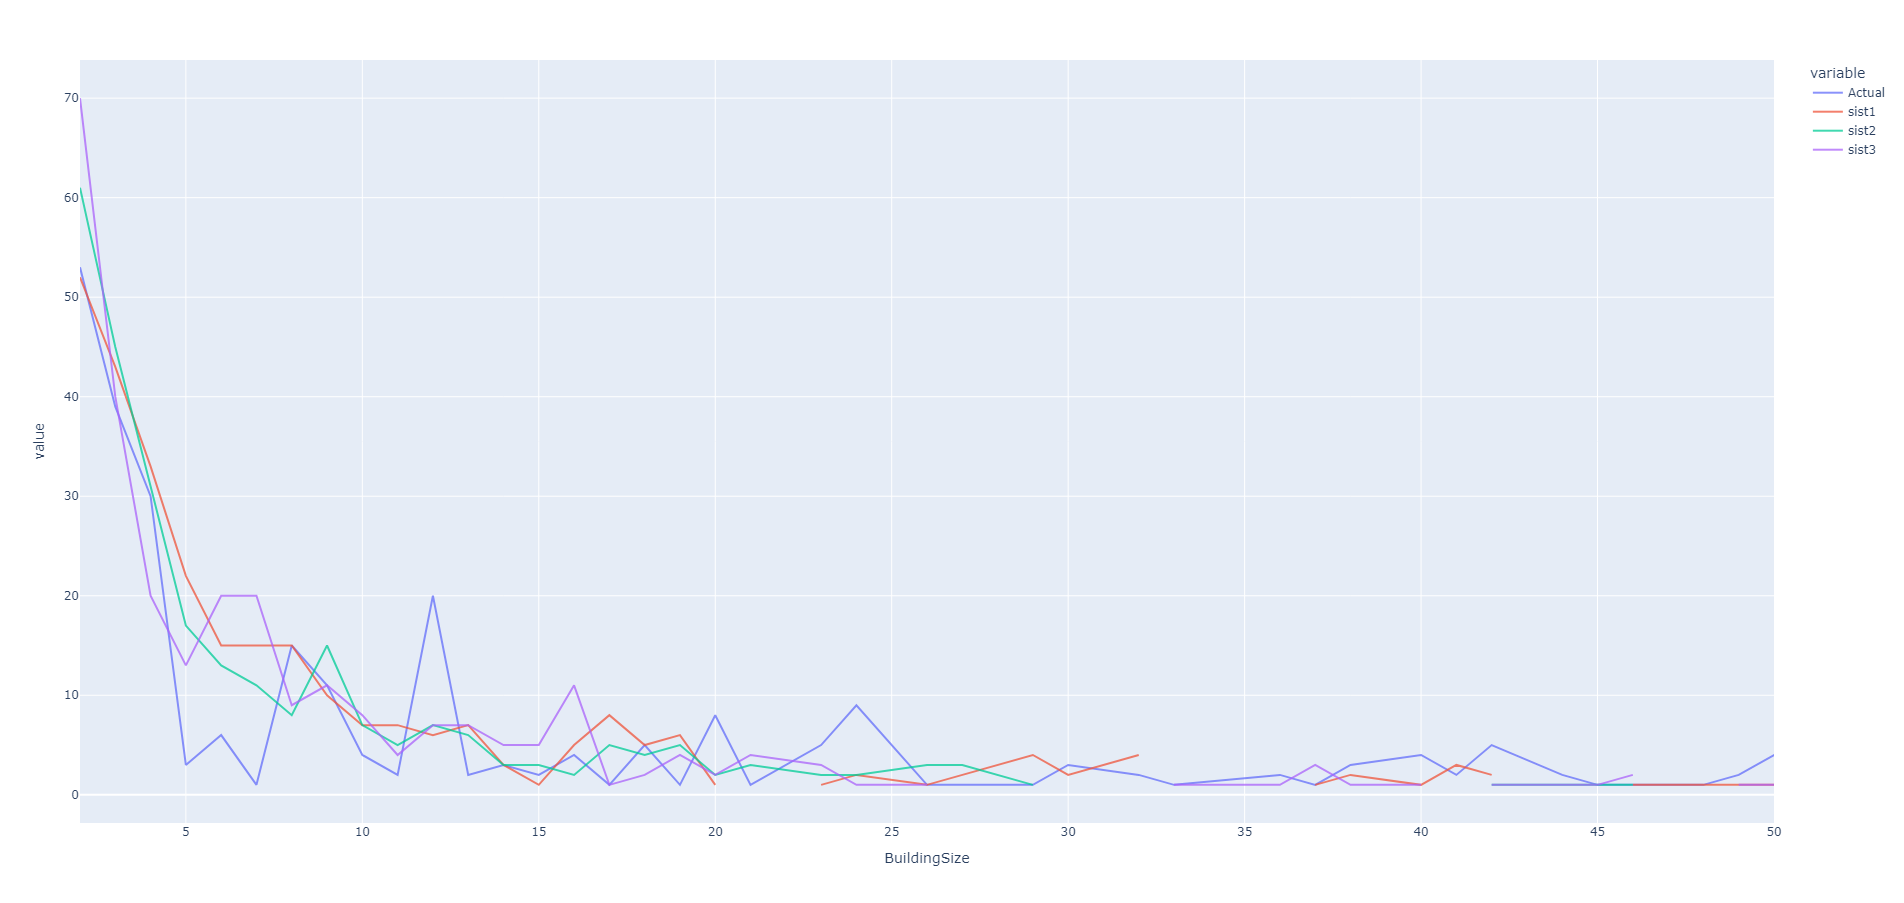
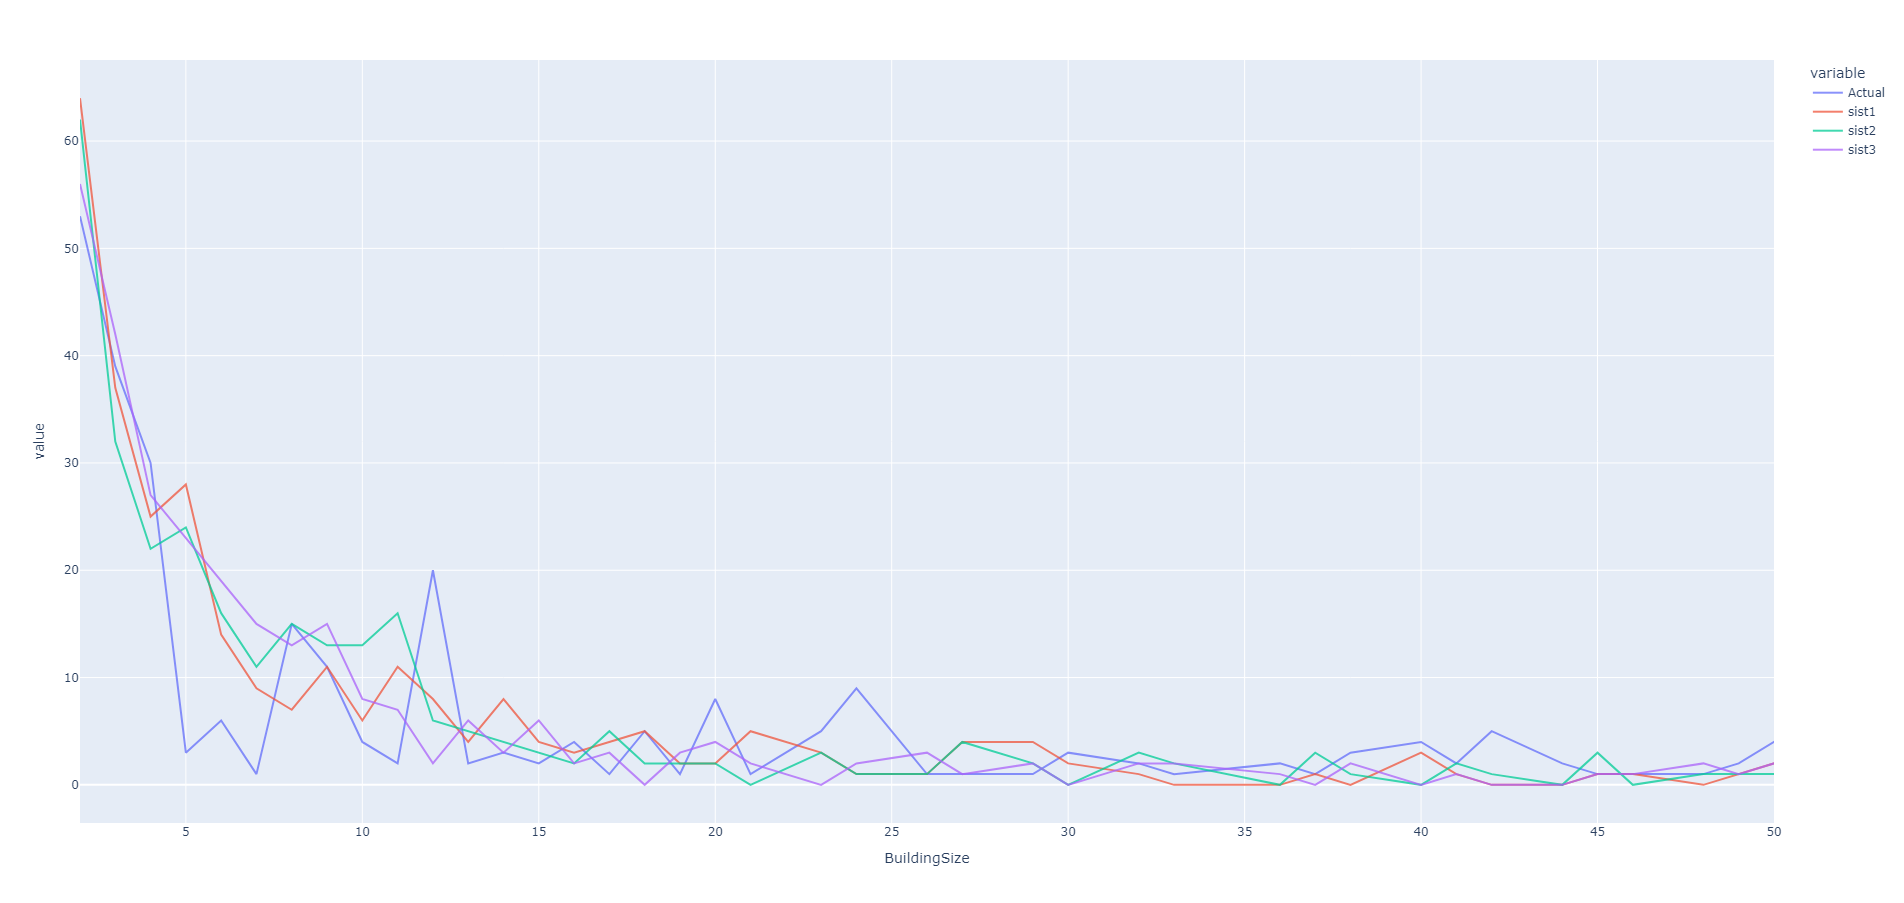
Fixed arbitrary curve generation count in curve fit tool

Changed region(s): [[0.031, 0.155, 0.9296, 0.8992], [0.4338, 0.7752, 0.4648, 0.8062]]

diff --git a/tools/fit-curve.py b/tools/fit-curve.py
@@ -31,10 +31,12 @@ dist_scale = 2.1624156371044805
 
 def get_nums():
     nums = []
-    for i in range(0, 341): # number of measurements in original dataset
-        num = 500
-        while num > 480:
-            num = int(floor(scipy.stats.pareto.rvs(dist_c, loc=dist_loc, scale=dist_scale, size=1)))
+    number_of_measurements = 1000 #2000000 # 341
+    for i in range(0, number_of_measurements): # number of measurements in original dataset
+        num = -9999 # Intentionally invalid starting value for while loop
+        max_size_limit = 5000 # 480
+        while num < 0 or num > max_size_limit:
+            num = int(floor(scipy.stats.pareto.rvs(dist_c, loc=dist_loc, scale=dist_scale, size=1)[0]))
         nums.append(num)
     nums = pd.array(nums)
     numcounts = nums.value_counts()
@@ -96,21 +98,23 @@ def test_visually():
     # Get initial frame
     numseries, numcounts = pd.Series(get_nums())
     countFrame = data
-    countFrame = countFrame.fillna(0)
+    #countFrame = countFrame.fillna(0)
+    # It's giving me NA for large numbers! Fill NA is filling with 0s
     countFrame = countFrame.rename(columns={"Count": "Actual"})
     countFrame = countFrame.set_index("BuildingSize")
 
     # More copies to see range
-    for i in range(1,4):
+    line_count = 30 # 4
+    for i in range(1,line_count):
         numseries, numcounts = pd.Series(get_nums())
-        countFrame["sist" + str(i)] = numcounts
+        countFrame["Simulated " + str(i)] = numcounts
     countFrame.sort_index(inplace=True)
-    countFrame = countFrame.fillna(0)
+    #countFrame = countFrame.fillna(0)
     print("Actual count:", data["Count"].sum()) # For sampling reference
     # Graph it
     fig = px.line(countFrame)
     #fig.update_layout(barmode='group')
-    fig.update_xaxes(autorangeoptions=dict(maxallowed=50))
+    #fig.update_xaxes(autorangeoptions=dict(maxallowed=50))
     fig.update_traces(opacity=0.75)
     fig.show()
 

diff --git a/main.py b/main.py
@@ -101,7 +101,8 @@ def main():
             print("Total power demand of building", building_id, "between", config.START_DATE, "and", config.END_DATE, ":", power_sum_building, "kW")
             print("Power demand average of building", building_id, "between", config.START_DATE, "and", config.END_DATE, ":", power_avg_building, "kW")
             # TODO: graph looks weird if resolution = time range provided (eg. day resolution and single day for date range)
-            fig = reader.graph_building_power(building_id, config.STAT_TEMPORAL_RESOLUTION, show_graph=False)
+            fig = reader.graph_building_power(building_id, config.STAT_TEMPORAL_RESOLUTION, show_graph=True)
+        #fig = reader.graph_building_power(1, config.STAT_TEMPORAL_RESOLUTION, show_graph=True)
 
         # Decryption testing
         try:

diff --git a/virtual_buildings/meterdata.py b/virtual_buildings/meterdata.py
@@ -190,7 +190,7 @@ class MeterDataParser:
         if min_size < 1: # sanity check; buildings must have at least one site
             min_size = 1
         max_size = self.__site_count # TODO: should this be limited to something smaller to ensure more than one building is made?
-        count = 0 # placeholder; buildings can't have no sites
+        count = 0 # placeholder to kickstart while loop; buildings can't have no sites
         while count < min_size or count > max_size: # Exclude values that are too small or too large
             count = int(floor(pareto.rvs(self.__dist_c, loc=self.__dist_loc, scale=self.__dist_scale, size=1, random_state=self.rd)))
         #print("GenCount:", count) # for debugging of building sizes
